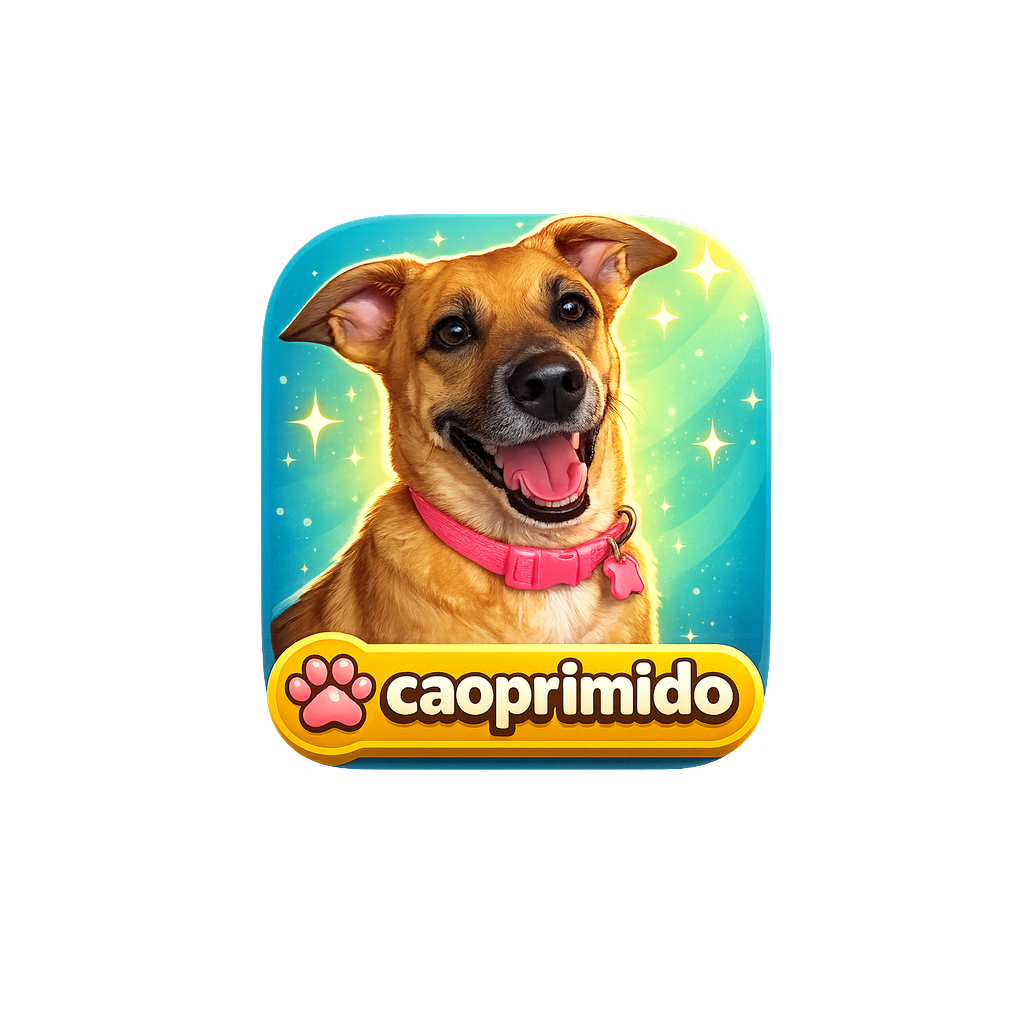
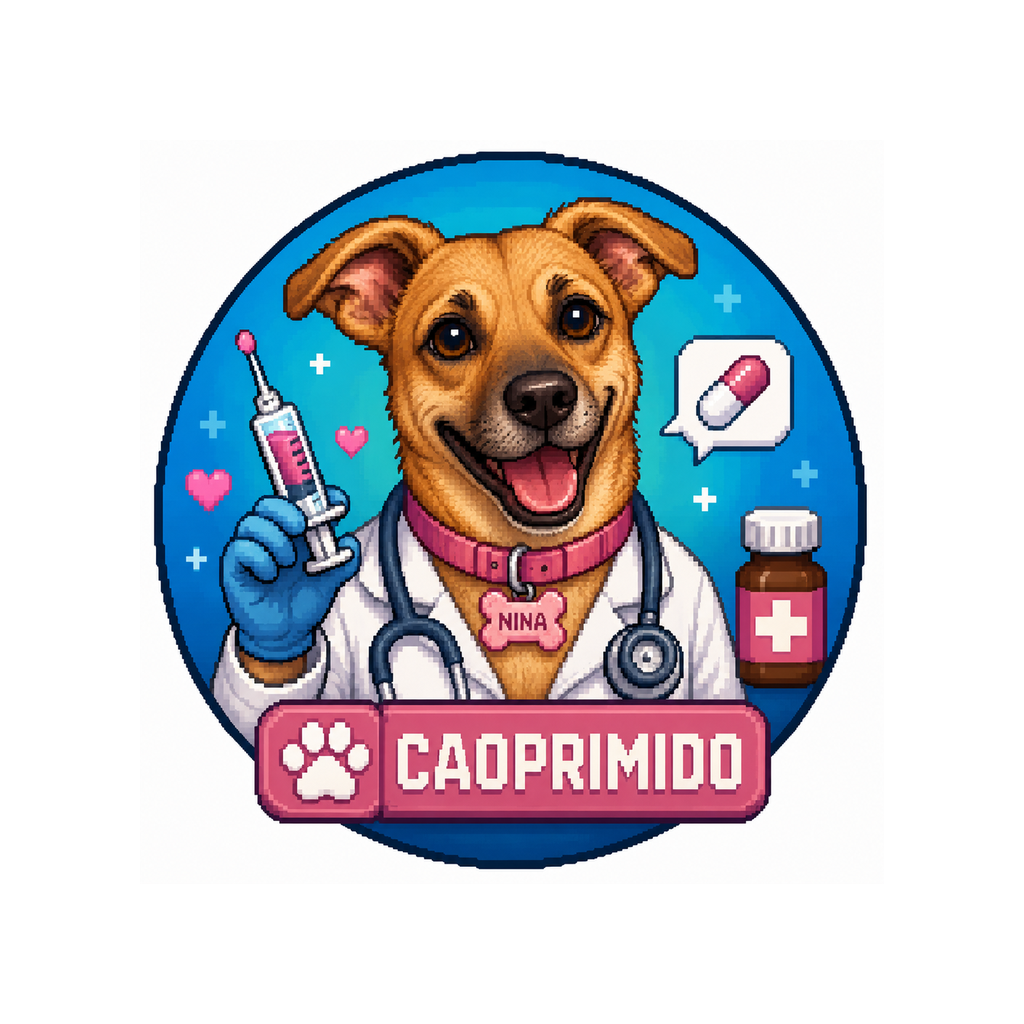
Troca expo-notifications por notifee (alarme de verdade: toca insistente e acorda a tela); novo icone

diff --git a/src/utils/notifications.js b/src/utils/notifications.js
@@ -1,58 +1,81 @@
-import * as Notifications from 'expo-notifications';
-import { Platform } from 'react-native';
+import notifee, {
+  AndroidImportance,
+  AndroidVisibility,
+  AndroidCategory,
+  TriggerType,
+  RepeatFrequency,
+} from '@notifee/react-native';
 
-// Faz as notificações aparecerem mesmo com o app aberto
-Notifications.setNotificationHandler({
-  handleNotification: async () => ({
-    shouldShowAlert: true,
-    shouldPlaySound: true,
-    shouldSetBadge: false,
-  }),
-});
+const CANAL_ID = 'remedios';
 
 export async function pedirPermissoes() {
-  const { status: statusAtual } = await Notifications.getPermissionsAsync();
-  let status = statusAtual;
+  await notifee.requestPermission();
 
-  if (statusAtual !== 'granted') {
-    const { status: novoStatus } = await Notifications.requestPermissionsAsync();
-    status = novoStatus;
-  }
+  await notifee.createChannel({
+    id: CANAL_ID,
+    name: 'Alarmes de remédio',
+    importance: AndroidImportance.HIGH,
+    sound: 'default',
+    vibration: true,
+    visibility: AndroidVisibility.PUBLIC,
+  });
 
-  if (Platform.OS === 'android') {
-    await Notifications.setNotificationChannelAsync('remedios', {
-      name: 'Lembretes de remédio',
-      importance: Notifications.AndroidImportance.MAX,
-      sound: 'default',
-      vibrationPattern: [0, 500, 250, 500],
-      bypassDnd: false,
-      lockscreenVisibility: Notifications.AndroidNotificationVisibility.PUBLIC,
-    });
-  }
-
-  return status === 'granted';
+  return true;
 }
 
-// Cancela uma lista de notificações agendadas (usado ao editar/excluir remédio)
+// Cancela uma lista de alarmes agendados (usado ao editar/excluir remédio)
 export async function cancelarAlarmes(notificationIds = []) {
   for (const id of notificationIds) {
     try {
-      await Notifications.cancelScheduledNotificationAsync(id);
+      await notifee.cancelTriggerNotification(id);
     } catch (e) {
-      // notificação já pode não existir mais, ignora
+      // alarme já pode não existir mais, ignora
     }
   }
 }
 
-// Converte "08:00" em { hora, minuto }
-function parseHorario(horario) {
-  const [hora, minuto] = horario.split(':').map(Number);
-  return { hora, minuto };
+// Próxima ocorrência de um horário "HH:MM" a partir de agora (hoje se ainda não passou, senão amanhã)
+function proximaOcorrenciaDiaria(hora, minuto) {
+  const agora = new Date();
+  const data = new Date();
+  data.setHours(hora, minuto, 0, 0);
+  if (data.getTime() <= agora.getTime()) {
+    data.setDate(data.getDate() + 1);
+  }
+  return data;
 }
 
-// expo-notifications usa weekday de 1 (domingo) a 7 (sábado)
-function diaSemanaParaExpo(diaJs) {
-  return diaJs + 1;
+// Próxima ocorrência de um dia da semana (0=domingo) + horário
+function proximaOcorrenciaSemanal(diaSemanaJs, hora, minuto) {
+  const agora = new Date();
+  const data = new Date();
+  data.setHours(hora, minuto, 0, 0);
+  let diasAte = diaSemanaJs - data.getDay();
+  if (diasAte < 0 || (diasAte === 0 && data.getTime() <= agora.getTime())) {
+    diasAte += 7;
+  }
+  data.setDate(data.getDate() + diasAte);
+  return data;
+}
+
+async function criarAlarme(titulo, corpo, trigger) {
+  return notifee.createTriggerNotification(
+    {
+      title: titulo,
+      body: corpo,
+      android: {
+        channelId: CANAL_ID,
+        category: AndroidCategory.ALARM,
+        importance: AndroidImportance.HIGH,
+        sound: 'default',
+        loopSound: true, // toca repetidamente até o usuário interagir (igual despertador)
+        pressAction: { id: 'default' },
+        fullScreenAction: { id: 'default' }, // acorda a tela / mostra por cima do bloqueio
+        autoCancel: true,
+      },
+    },
+    trigger
+  );
 }
 
 /**
@@ -60,65 +83,56 @@ function diaSemanaParaExpo(diaJs) {
  * remedio.frequencia pode ser:
  *   { tipo: 'diaria' }
  *   { tipo: 'dias_semana', dias: [0,2,4] }  // 0=domingo ... 6=sábado
- *   { tipo: 'intervalo', intervaloDias: 2, proximaData: 'YYYY-MM-DD' }
+ *   { tipo: 'intervalo', intervaloDias: 2, dataInicio, proximaData: 'YYYY-MM-DD' }
  * Retorna a lista de notificationIds agendados.
  */
 export async function agendarAlarmesRemedio(remedio) {
   const { nome, dosagem, horarios, frequencia } = remedio;
   const corpo = `Dose: ${dosagem}`;
   const idsAgendados = [];
+  const titulo = `Hora de tomar: ${nome}`;
 
   if (!frequencia || frequencia.tipo === 'diaria') {
-    // Repete todo dia, nos horários escolhidos
     for (const horario of horarios) {
-      const { hora, minuto } = parseHorario(horario);
-      const id = await Notifications.scheduleNotificationAsync({
-        content: { title: `Hora de tomar: ${nome}`, body: corpo, sound: 'default' },
-        trigger: {
-          type: Notifications.SchedulableTriggerInputTypes.DAILY,
-          hour: hora,
-          minute: minuto,
-          channelId: 'remedios',
-        },
+      const [hora, minuto] = horario.split(':').map(Number);
+      const data = proximaOcorrenciaDiaria(hora, minuto);
+      const id = await criarAlarme(titulo, corpo, {
+        type: TriggerType.TIMESTAMP,
+        timestamp: data.getTime(),
+        repeatFrequency: RepeatFrequency.DAILY,
+        alarmManager: { allowWhileIdle: true },
       });
       idsAgendados.push(id);
     }
   } else if (frequencia.tipo === 'dias_semana') {
-    // Repete toda semana, nos dias e horários escolhidos
     for (const diaJs of frequencia.dias) {
       for (const horario of horarios) {
-        const { hora, minuto } = parseHorario(horario);
-        const id = await Notifications.scheduleNotificationAsync({
-          content: { title: `Hora de tomar: ${nome}`, body: corpo, sound: 'default' },
-          trigger: {
-            type: Notifications.SchedulableTriggerInputTypes.WEEKLY,
-            weekday: diaSemanaParaExpo(diaJs),
-            hour: hora,
-            minute: minuto,
-            channelId: 'remedios',
-          },
+        const [hora, minuto] = horario.split(':').map(Number);
+        const data = proximaOcorrenciaSemanal(diaJs, hora, minuto);
+        const id = await criarAlarme(titulo, corpo, {
+          type: TriggerType.TIMESTAMP,
+          timestamp: data.getTime(),
+          repeatFrequency: RepeatFrequency.WEEKLY,
+          alarmManager: { allowWhileIdle: true },
         });
         idsAgendados.push(id);
       }
     }
   } else if (frequencia.tipo === 'intervalo') {
-    // O Expo não tem um gatilho nativo "a cada N dias", então agendamos
-    // só a próxima data. O app reagenda a seguinte automaticamente
-    // sempre que é aberto (veja reagendarAlarmesIntervalo).
+    // Sem repetição nativa "a cada N dias": agenda só a próxima data.
+    // O app reagenda a seguinte automaticamente quando é aberto
+    // (veja reagendarAlarmesIntervalo).
     const proxima = new Date(frequencia.proximaData + 'T00:00:00');
     for (const horario of horarios) {
-      const { hora, minuto } = parseHorario(horario);
+      const [hora, minuto] = horario.split(':').map(Number);
       const dataComHora = new Date(proxima);
       dataComHora.setHours(hora, minuto, 0, 0);
 
       if (dataComHora.getTime() > Date.now()) {
-        const id = await Notifications.scheduleNotificationAsync({
-          content: { title: `Hora de tomar: ${nome}`, body: corpo, sound: 'default' },
-          trigger: {
-            type: Notifications.SchedulableTriggerInputTypes.DATE,
-            date: dataComHora,
-            channelId: 'remedios',
-          },
+        const id = await criarAlarme(titulo, corpo, {
+          type: TriggerType.TIMESTAMP,
+          timestamp: dataComHora.getTime(),
+          alarmManager: { allowWhileIdle: true },
         });
         idsAgendados.push(id);
       }
@@ -138,8 +152,6 @@ export function somarDias(dataString, dias) {
 /**
  * Verifica remédios do tipo "intervalo" cuja data agendada já passou
  * e reagenda a próxima automaticamente. Chame isso quando o app abre.
- * Recebe a lista de remédios e uma função para salvar a lista atualizada;
- * devolve a lista (possivelmente atualizada).
  */
 export async function reagendarAlarmesIntervalo(remedios, salvarRemedios) {
   const hoje = new Date().toISOString().split('T')[0];
@@ -171,14 +183,15 @@ export async function reagendarAlarmesIntervalo(remedios, salvarRemedios) {
   return novaLista;
 }
 
-// Dispara um aviso imediato de estoque baixo
+// Dispara um aviso imediato de estoque baixo (notificação comum, não é alarme)
 export async function avisarEstoqueBaixo(remedioNome, quantidadeAtual, unidade) {
-  await Notifications.scheduleNotificationAsync({
-    content: {
-      title: 'Estoque baixo!',
-      body: `${remedioNome} está acabando (restam ${quantidadeAtual} ${unidade}). Hora de comprar mais.`,
-      sound: 'default',
+  await notifee.displayNotification({
+    title: 'Estoque baixo!',
+    body: `${remedioNome} está acabando (restam ${quantidadeAtual} ${unidade}). Hora de comprar mais.`,
+    android: {
+      channelId: CANAL_ID,
+      importance: AndroidImportance.HIGH,
+      pressAction: { id: 'default' },
     },
-    trigger: null, // dispara imediatamente
   });
 }
